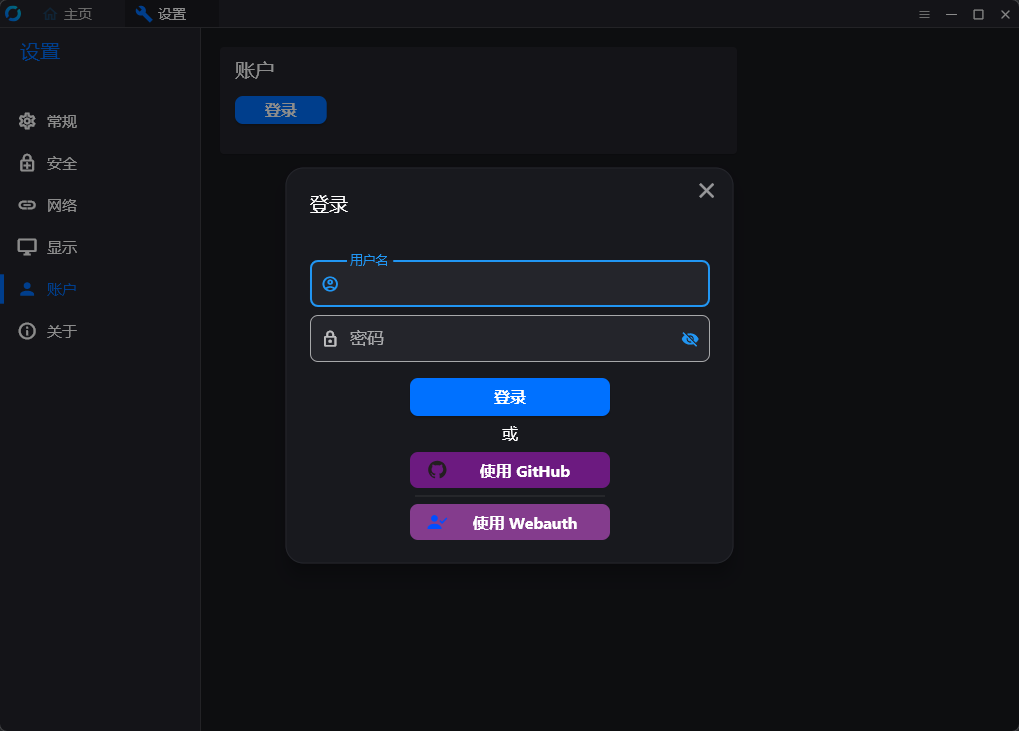
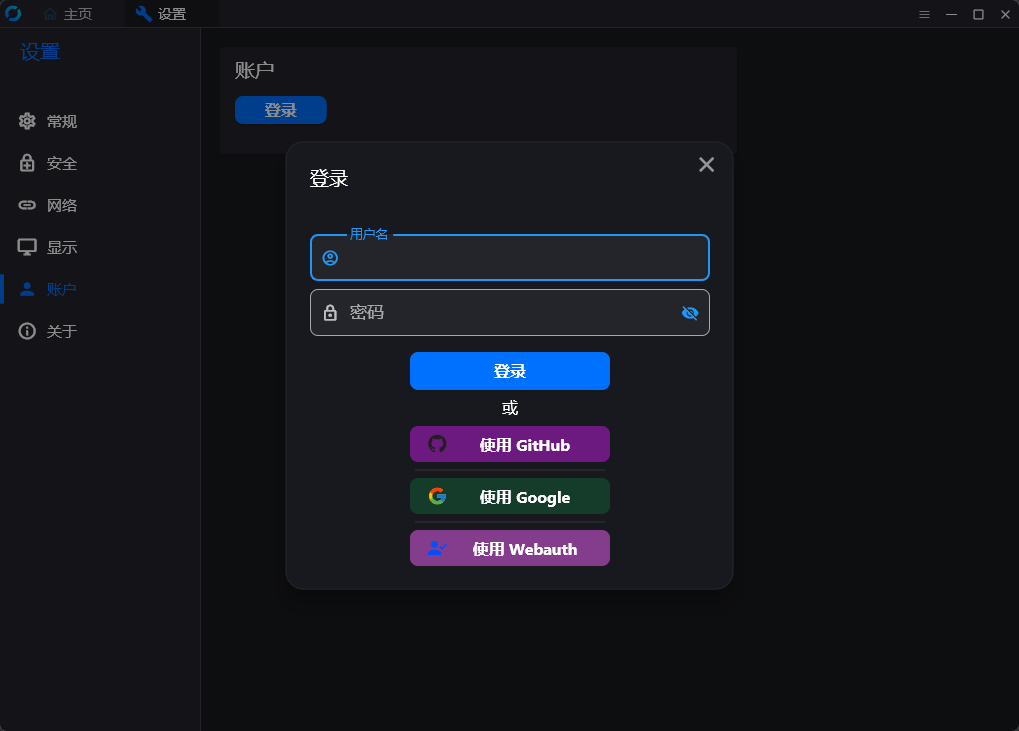
add google oauth

Changed region(s): [[0.3955, 0.4815, 0.6084, 0.7825], [0.3042, 0.2107, 0.6997, 0.4815], [0.6693, 0.2107, 0.6997, 0.2709]]

diff --git a/http/controller/api/ouath.go b/http/controller/api/ouath.go
@@ -10,6 +10,7 @@ import (
 	"github.com/gin-gonic/gin"
 	"net/http"
 	"strconv"
+	"strings"
 )
 
 type Oauth struct {
@@ -161,9 +162,8 @@ func (o *Oauth) OauthCallback(c *gin.Context) {
 			}
 			c.String(http.StatusOK, "绑定成功")
 			return
-		}
-		//登录
-		if ac == service.OauthActionTypeLogin {
+		} else if ac == service.OauthActionTypeLogin {
+			//登录
 			if v.UserId != 0 {
 				c.String(http.StatusInternalServerError, "授权已经成功")
 				return
@@ -181,7 +181,7 @@ func (o *Oauth) OauthCallback(c *gin.Context) {
 				}
 
 				//自动注册
-				u = service.AllService.UserService.RegisterByGithub(userData.Login, int64(userData.Id))
+				u = service.AllService.UserService.RegisterByGithub(userData.Login, strconv.Itoa(userData.Id))
 				if u.Id == 0 {
 					c.String(http.StatusInternalServerError, "注册失败")
 					return
@@ -193,18 +193,75 @@ func (o *Oauth) OauthCallback(c *gin.Context) {
 			c.String(http.StatusOK, "授权成功")
 			return
 		}
-
 		//返回js
 		c.Header("Content-Type", "text/html; charset=utf-8")
 		c.String(http.StatusOK, "授权错误")
-		//up := &apiResp.UserPayload{}
-		//c.JSON(http.StatusOK, apiResp.LoginRes{
-		//	AccessToken: ut.Token,
-		//	Type:        "access_token",
-		//	User:        *up.FromUser(u),
-		//})
 
 	}
+
+	if ty == model.OauthTypeGoogle {
+		code := c.Query("code")
+		err, userData := service.AllService.OauthService.GoogleCallback(code)
+		if err != nil {
+			c.String(http.StatusInternalServerError, "授权失败:"+err.Error())
+			return
+		}
+		//将空格替换成_
+		googleName := strings.Replace(userData.Name, " ", "_", -1)
+		if ac == service.OauthActionTypeBind {
+			//fmt.Println("bind", ty, userData)
+			utr := service.AllService.OauthService.UserThirdInfo(ty, userData.Email)
+			if utr.UserId > 0 {
+				c.String(http.StatusInternalServerError, "已经绑定其他账号")
+				return
+			}
+			//绑定
+			u := service.AllService.UserService.InfoById(v.UserId)
+			if u == nil {
+				c.String(http.StatusInternalServerError, "用户不存在")
+				return
+			}
+			//绑定
+			err = service.AllService.OauthService.BindGoogleUser(userData.Email, googleName, v.UserId)
+			if err != nil {
+				c.String(http.StatusInternalServerError, "绑定失败")
+				return
+			}
+			c.String(http.StatusOK, "绑定成功")
+			return
+		} else if ac == service.OauthActionTypeLogin {
+			if v.UserId != 0 {
+				c.String(http.StatusInternalServerError, "授权已经成功")
+				return
+			}
+			u := service.AllService.UserService.InfoByGoogleEmail(userData.Email)
+			if u == nil {
+				oa := service.AllService.OauthService.InfoByOp(ty)
+				if !*oa.AutoRegister {
+					//c.String(http.StatusInternalServerError, "还未绑定用户，请先绑定")
+
+					v.ThirdName = googleName
+					v.ThirdOpenId = userData.Email
+					url := global.Config.Rustdesk.ApiServer + "/_admin/#/oauth/bind/" + cacheKey
+					c.Redirect(http.StatusFound, url)
+					return
+				}
+
+				//自动注册
+				u = service.AllService.UserService.RegisterByGoogle(googleName, userData.Email)
+				if u.Id == 0 {
+					c.String(http.StatusInternalServerError, "注册失败")
+					return
+				}
+			}
+
+			v.UserId = u.Id
+			service.AllService.OauthService.SetOauthCache(cacheKey, v, 0)
+			c.String(http.StatusOK, "授权成功")
+			return
+		}
+	}
+	c.String(http.StatusInternalServerError, "授权配置错误,请联系管理员")
 
 }
 

diff --git a/service/oauth.go b/service/oauth.go
@@ -68,7 +68,15 @@ type GithubUserdata struct {
 	UpdatedAt               time.Time `json:"updated_at"`
 	Url                     string    `json:"url"`
 }
-
+type GoogleUserdata struct {
+	Email         string `json:"email"`
+	FamilyName    string `json:"family_name"`
+	GivenName     string `json:"given_name"`
+	Id            string `json:"id"`
+	Name          string `json:"name"`
+	Picture       string `json:"picture"`
+	VerifiedEmail bool   `json:"verified_email"`
+}
 type OauthCacheItem struct {
 	UserId      uint   `json:"user_id"`
 	Id          string `json:"id"` //rustdesk的设备ID
@@ -187,9 +195,40 @@ func (os *OauthService) GithubCallback(code string) (error error, userData *Gith
 	}(resp.Body)
 
 	// 在这里处理 GitHub 用户信息
-	if err := json.NewDecoder(resp.Body).Decode(&userData); err != nil {
+	if err = json.NewDecoder(resp.Body).Decode(&userData); err != nil {
 		global.Logger.Warn("failed decoding user info: %s\n", err)
 		error = errors.New("解析user info失败")
+		return
+	}
+	return
+}
+
+func (os *OauthService) GoogleCallback(code string) (error error, userData *GoogleUserdata) {
+	err, oauthConfig := os.GetOauthConfig(model.OauthTypeGoogle)
+	token, err := oauthConfig.Exchange(context.Background(), code)
+	if err != nil {
+		global.Logger.Warn(fmt.Printf("oauthConfig.Exchange() failed: %s\n", err))
+		error = errors.New("获取token失败")
+		return
+	}
+	// 创建 HTTP 客户端，并将 access_token 添加到 Authorization 头中
+	client := oauthConfig.Client(context.Background(), token)
+	resp, err := client.Get("https://www.googleapis.com/oauth2/v2/userinfo")
+	if err != nil {
+		global.Logger.Warn("failed getting user info: %s\n", err)
+		error = errors.New("获取user info失败： " + err.Error())
+		return
+	}
+	defer func(Body io.ReadCloser) {
+		err := Body.Close()
+		if err != nil {
+			global.Logger.Warn("failed closing response body: %s\n", err)
+		}
+	}(resp.Body)
+
+	if err = json.NewDecoder(resp.Body).Decode(&userData); err != nil {
+		global.Logger.Warn("failed decoding user info: %s\n", err)
+		error = errors.New("解析user info失败：" + err.Error())
 		return
 	}
 	return
@@ -202,14 +241,22 @@ func (os *OauthService) UserThirdInfo(op, openid string) *model.UserThird {
 }
 
 func (os *OauthService) BindGithubUser(openid, username string, userId uint) error {
+	return os.BindOauthUser(model.OauthTypeGithub, openid, username, userId)
+}
+
+func (os *OauthService) BindGoogleUser(email, username string, userId uint) error {
+	return os.BindOauthUser(model.OauthTypeGoogle, email, username, userId)
+}
+func (os *OauthService) BindOauthUser(thirdType, openid, username string, userId uint) error {
 	utr := &model.UserThird{
 		OpenId:    openid,
-		ThirdType: model.OauthTypeGithub,
+		ThirdType: thirdType,
 		ThirdName: username,
 		UserId:    userId,
 	}
 	return global.DB.Create(utr).Error
 }
+
 func (os *OauthService) UnBindGithubUser(userid uint) error {
 	return global.DB.Where("user_id = ? and third_type = ?", userid, model.OauthTypeGithub).Delete(&model.UserThird{}).Error
 }

diff --git a/service/user.go b/service/user.go
@@ -175,7 +175,17 @@ func (us *UserService) RouteNames(u *model.User) []string {
 
 // InfoByGithubId 根据githubid取用户信息
 func (us *UserService) InfoByGithubId(githubId string) *model.User {
-	ut := AllService.OauthService.UserThirdInfo(model.OauthTypeGithub, githubId)
+	return us.InfoByOauthId(model.OauthTypeGithub, githubId)
+}
+
+// InfoByGoogleEmail 根据googleid取用户信息
+func (us *UserService) InfoByGoogleEmail(email string) *model.User {
+	return us.InfoByOauthId(model.OauthTypeGithub, email)
+}
+
+// InfoByOauthId 根据oauth取用户信息
+func (us *UserService) InfoByOauthId(thirdType, uid string) *model.User {
+	ut := AllService.OauthService.UserThirdInfo(thirdType, uid)
 	if ut.Id == 0 {
 		return nil
 	}
@@ -187,12 +197,22 @@ func (us *UserService) InfoByGithubId(githubId string) *model.User {
 }
 
 // RegisterByGithub 注册
-func (us *UserService) RegisterByGithub(githubName string, githubId int64) *model.User {
+func (us *UserService) RegisterByGithub(githubName string, githubId string) *model.User {
+	return us.RegisterByOauth(model.OauthTypeGithub, githubName, githubId)
+}
+
+// RegisterByGoogle 注册
+func (us *UserService) RegisterByGoogle(name string, email string) *model.User {
+	return us.RegisterByOauth(model.OauthTypeGoogle, name, email)
+}
+
+// RegisterByOauth 注册
+func (us *UserService) RegisterByOauth(thirdType, thirdName, uid string) *model.User {
 	tx := global.DB.Begin()
 	ut := &model.UserThird{
-		OpenId:    strconv.FormatInt(githubId, 10),
-		ThirdName: githubName,
-		ThirdType: model.OauthTypeGithub,
+		OpenId:    uid,
+		ThirdName: thirdName,
+		ThirdType: thirdType,
 	}
 	//global.DB.Where("open_id = ?", githubId).First(ut)
 	//这种情况不应该出现，如果出现说明有bug
@@ -203,7 +223,7 @@ func (us *UserService) RegisterByGithub(githubName string, githubId int64) *mode
 	//	return u
 	//}
 
-	username := us.GenerateUsernameByOauth(githubName)
+	username := us.GenerateUsernameByOauth(thirdName)
 	u := &model.User{
 		Username: username,
 		GroupId:  1,

diff --git a/README.md b/README.md
@@ -36,8 +36,8 @@
 
 #### 登录
 
-- 添加了`github`登录，需要在后台配置好就可以用了，具体可看后台OAuth配置
-- 添加了web后台授权登录
+- 添加了`github`和`google`授权登录，需要在后台配置好就可以用了，具体可看后台OAuth配置
+- 添加了web后台授权登录,点击后直接登录后台就自动登录客户端了
 
 ![pc_login](docs/pc_login.png)
 
@@ -66,7 +66,7 @@
    ![web_admin_gr](docs/web_admin_gr.png)
 5. 可以直接打开webclient，方便使用
    ![web_webclient](docs/admin_webclient.png)
-6. Oauth,暂时只支持了`Github`, 需要创建一个`OAuth App`，然后配置到后台
+6. Oauth,暂时只支持了`Github`和`Google`, 需要创建一个`OAuth App`，然后配置到后台
    ![web_admin_oauth](docs/web_admin_oauth.png)
     - `github oauth app`在`Settings`->`Developer settings`->`OAuth Apps`->`New OAuth App`
       中创建,地址 [https://github.com/settings/developers](https://github.com/settings/developers)

diff --git a/README_EN.md b/README_EN.md
@@ -36,7 +36,7 @@ desktop software that provides self-hosted solutions.
 
 #### Login
 
-- Added `GitHub` login, which can be used after configuration in the admin panel. See the OAuth configuration section
+- Added `GitHub` and `Google` login, which can be used after configuration in the admin panel. See the OAuth configuration section
   for details.
 - Added authorization login for the web admin panel.
 
@@ -67,7 +67,7 @@ installation are `admin` `admin`, please change the password immediately.***
    ![web_admin_gr](docs/web_admin_gr.png)
 5. You can open the web client directly for convenience:
    ![web_webclient](docs/admin_webclient.png)
-6. OAuth support: Currently, only `GitHub` is supported. You need to create an `OAuth App` and configure it in the admin
+6. OAuth support: Currently, `GitHub` and `Google`  is supported. You need to create an `OAuth App` and configure it in the admin
    panel.
    ![web_admin_oauth](docs/web_admin_oauth.png)
     - Create a `GitHub OAuth App`
